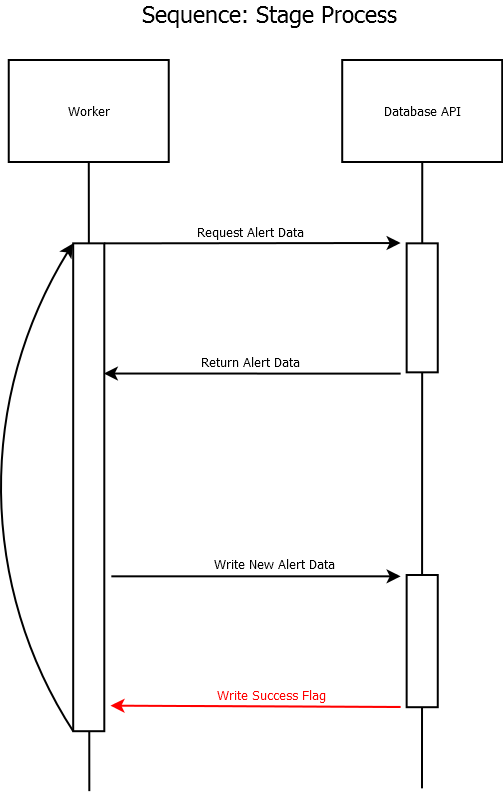
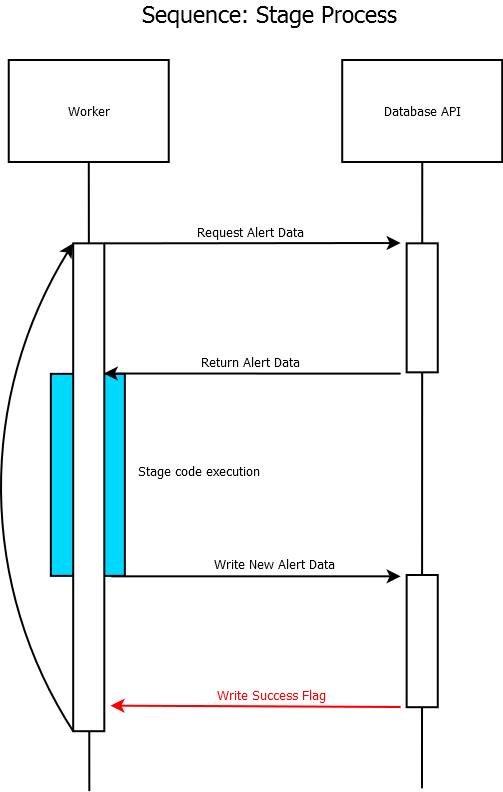
API update

Changed region(s): [[0.2087, 0.4545, 0.507, 0.7273], [0.0895, 0.4545, 0.1491, 0.7273]]

diff --git a/antares/context.py b/antares/context.py
@@ -13,7 +13,7 @@ from pandas.lib import Timestamp
 class Context:
     """
     Represents a context object in general.
-    It is the super class for all 11 concrete context objects.
+    It is the super class for all of the concrete context objects.
     """
 
     def __init__( self ):
@@ -253,7 +253,7 @@ class LAContext( Context ):
     """
     name = 'LA'
     """
-    Name of LA context.
+    Name of LA context ('LA').
 
     :type: string
     """
@@ -271,7 +271,7 @@ class LAContext( Context ):
         :param string context: the name of the context
         :param string attrname: the name of the attribute
 
-        :return: a time series of values. Here the values are tuples of magnitude and passbands.
+        :return: a time series of values.
         :rtype: :py:class:`pandas.TimeSeries` of (uncertainFloat, string)
         """
         pass
@@ -285,7 +285,7 @@ class LAContext( Context ):
         :param string context: the name of the context
         :param string attrname: the name of the attribute
 
-        :return: a time series of values. Here the values are tuples of magnitude and passbands.
+        :return: a time series of values.
         :rtype: :py:class:`pandas.TimeSeries` of (uncertainFloat, string)
         """
         ## Connect to mysql database.

diff --git a/antares/attribute.py b/antares/attribute.py
@@ -6,12 +6,13 @@ from datetime import datetime
 class Attribute:
     """
     Represents an attribute object. An attribute is initialized with its name,
-    the context it belongs to, the datatype of its value, a description and the scale of its value.
+    the context it belongs to, the datatype of its value, a description, and the scale of its value.
 
     :param: name(string): name of the attribute
     :param: context(:py:class:`antares.context.Context`): context the attribute belongs to
     :param: datatype(string): data type of the attribute value
     :param: scale(:py:class:`IntPair`): the range to which the attribute value scales
+    :param: scale(:py:class:`FloatPair`): the range to which the attribute value scales
     :param: description(string): description of the attribute
     """
 
@@ -21,14 +22,6 @@ class Attribute:
     It is a Numpy array.
 
     :type: numpy array
-    """
-
-    time_series = None
-    """
-    The time series of all the past values computed for the attribute.
-    It is a Pandas Time Series.
-
-    :type: pandas series
     """
 
     description = ""

diff --git a/antares/alert.py b/antares/alert.py
@@ -119,11 +119,11 @@ class CameraAlert( Alert ):
         return 'Alert {0} at (ra={1}, dec={2}) Decision={3}\n{4}'.format(
             self.ID, self.ra, self.decl, self.decision, self.CA)
 
-    def hasReplicas( self ):
+    def numReplicas( self ):
         """
-        Check whether alert has replicas.
+        Check how many replicas a Camera Alert has.
 
-        :return: :py:data:`True` if alert has replicas, otherwise :py:data:`False`.
+        :return: The number of replicas generated from this alert.
         """
         if len(self.replicas) == 0:
             return False
@@ -238,9 +238,6 @@ class CameraAlert( Alert ):
         return cursor.fetchall()[0][0]
 
     def commit( self ):
-        """
-        Commit the alert data to Locus-aggregated Alerts DB.
-        """
         conn = GetDBConn()
         cur = conn.cursor()
 

diff --git a/doc/source/index.rst b/doc/source/index.rst
@@ -16,17 +16,19 @@ Welcome to Antares documentation.
 *************
 API reference
 *************
-The ANTARES system, at its core, analyzes new data generated by the LSST in order to present astronomically interesting phenomena to scientists.  Thus, the system determines and filters regular activity from the more interesting data astronomers wish to investigate further.  In order to do this, ANTARES allows astronomers to develop code for use in analyzing the rarity of the observations.
+ANTARES, at its core, analyzes camera alert generated by the LSST in order to present astronomically interesting phenomena to scientists.  Thus, the system determines and filters regular activity from the more interesting data astronomers wish to investigate further.  In order to do this, ANTARES allows astronomers to develop code for use in determining the rarity of the observations.
 
-When the LSST completes and transmits an exposure to ANTARES, that exposure is XOR'd with previous exposures of the same segment of the sky; differences between exposures are entered into ANTARES as sets of Camera Alerts containing the data from the exposure.  Those Camera Alerts (and subsequently generated Alerts as will be discussed) are sent by ANTARES through the code developed by astronomers in stages which are run in a distributed system concurrently.  These code stages may determine that a Camera Alert is not sufficiently interesting to continue analysis and divert the alert, which instructs ANTARES to discard the alert and prevent further processing; Camera Alerts not diverted will proceed to further code stages for further processing.  In addition, stages may generate Alert Replicas- copies of a given Camera Alert- for parallel stage processing (each Replica Alert may be processed separately) or for use in Combo Alerts- a type of Alert which allows multiple Alerts to be processed together in a given stage as opposed to atomically on a single Camera Alert.  Stages may also access External Alerts- data from other telescopes- as well as known Astro Objects- known astrometric phenomena- and use them in Alert Combos for processing.
+When the LSST completes and transmits an exposure to ANTARES, that exposure is XOR'd with previous exposures of the same segment of the sky; differences between exposures are entered into ANTARES as a set of Camera Alerts containing the data from the exposure.  Those Camera Alerts (and subsequently generated Alerts as will be discussed) are sent by ANTARES through the code developed by astronomers in stages which are run in a distributed system concurrently.  These code stages may determine that a Camera Alert is not sufficiently interesting to continue analysis and will then divert the alert, which instructs ANTARES to not continue further processing; Camera Alerts not diverted will proceed to further code stages for further processing.  In addition, stages may generate Alert Replicas- copies of a given Camera Alert associated with different Astro Objects- for parallel stage processing (each Replica Alert may be processed separately) or for use in Combo Alerts- a type of Alert which allows multiple Alerts to be processed together in a given stage as opposed to individually as a single Camera Alert.  Stages may also access External Alerts- data from other telescopes- as well as known Astro Objects- known astronomic phenomena- and use them in Alert Combos for processing.
 
-Data for processing is located in the Alert object(s).  Each Alert object organizes its data in Contexts and Attributes.  Alerts have Contexts, which in turn have Attributes.  Contexts allow for categorical organization of data; to illustrate, the Camera Alert context holds data related to the brightness of a Camera Alert and the Astro Object context holds currently known data (such as color intensity) regarding the Astro Object in question.  These Contexts hold any number of Attributes, which are variables generated by and/or used in the stage processing.  Some Contexts have a set of predefined Attributes populated by default, such as data inherently available in Camera Alerts from the LSST.
+Data for processing is located in the Alert object(s).  Each Alert object organizes its data in Contexts and Attributes.  Alerts have Contexts, which in turn have Attributes.  Contexts allow for categorical organization of data.  To illustrate, the Camera Alert context holds data related to the brightness of a Camera Alert and the Astro Object context holds currently known data (such as color intensity) regarding the Astro Object in question.  These Contexts hold any number of Attributes, which are variables generated by and/or used in the stage processing.  Some Contexts have a set of predefined Attributes populated by default, such as data inherently available in Camera Alerts from the LSST.
 
-Within the ANTARES pipeline, stage code accesses the Alerts, Contexts, and Attributes, as well as helper functions, through the ANTARES API.  At the beginning of a stage, the ANTARES system- as defined in the API- passes the Alert for processing (including any Contexts and Attributes associated with as well as Replicas in the case of a Combo Alert) to the stage code; the ANTARES system retrieves this data from the Locus Aggregated Database (which is initially populated with data from the LSST).  At the end of the stage, ANTARES stores data generated and used by stages in the Locus Aggregated Database for use in further stages.  The helper functions supplied in the API, among other things, allows the stage code to direct what to do with an alert- discard, mark as rare, or simply continue processing- following the stage.
+Within the ANTARES pipeline, stage code accesses the Alerts, Contexts, and Attributes, as well as calling helper functions, through the ANTARES API.  At the beginning of a stage, ANTARES- as defined in the API- passes the Alert for processing (including any Contexts and Attributes associated with as well as Replicas in the case of a Combo Alert) to the stage code.  ANTARES then retrieves this data from the Locus Aggregated Database (which is initially populated with data from the LSST).  At the end of the stage, ANTARES stores data generated and used by stages in the Locus Aggregated Database for use in further stages.  The helper functions supplied in the API, among other things, allows the stage code to direct what to do with an alert- discard, mark as rare, or simply continue processing- following the stage.
 
 .. image:: ./_static/api_processing.png
+   
+   This figure demonstrates how ANTARES processes stage code.  Here, workers are individual threads operating on nodes.  They receive alert data to process from the master node and execute stages on that data as shown here.
 
-This document specifies the ANTARES API, which allows development of stage code for execution on the ANTARES system.
+This document specifies the ANTARES API, which allows development of stage code for execution on ANTARES.
 
 Alert related
 ^^^^^^^^^^^^^
@@ -81,7 +83,7 @@ Helper functions
 
    helper/index
 
-Pre-defined Attribute
+Pre-defined Attributes
 ^^^^^^^^^^^^^^^^^^^^^
 
 .. toctree::
